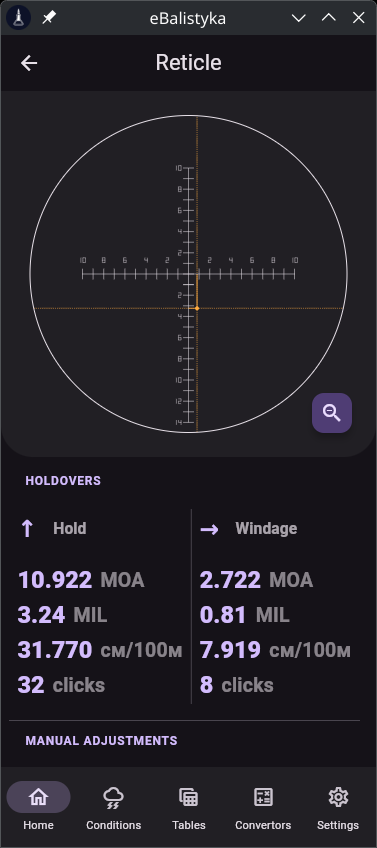
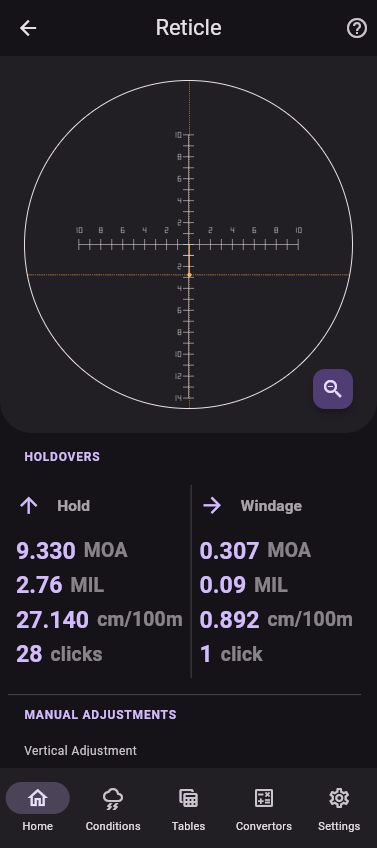
docs(help): rewrite the Reticle topic with the real labels, refresh screenshots (0012)

diff --git a/assets/markdown/uk/reticleScreen.md b/assets/markdown/uk/reticleScreen.md
@@ -1,52 +1,52 @@
-## Вид прицілу
+## Сітка прицілу
 
-Відображає сітку прицілу з нанесеною розрахованою поправкою і дозволяє налаштувати приціл та ціль.
+Показує сітку вашого прицілу з нанесеною розрахованою поправкою й дозволяє налаштувати ручні поправки, мішень та кліки. Відкривається дотиком до сітки на головному екрані.
 
 ![overview](resource:assets/markdown/uk/reticleScreen_overview.png)
 
 ---
 
-### Вид прицілу
+### Вид сітки
 
-Верхня панель показує сітку прицілу з ціллю, накладеною у правильному кутовому розмірі. Перехрестя зміщено на розраховану поправку по висоті та вітру.
+Верхня панель лишається на екрані, поки ви прокручуєте налаштування під нею. Вона показує сітку з мішенню у правильному кутовому розмірі; пунктирне перехрестя позначає точку, зміщену на розраховану поправку по висоті та вітру.
 
-- **Щипок / прокрутка** — наближення для детального огляду
+- **Щипок / прокрутка** — наближення (до 10×) для детального огляду
 - **Подвійний дотик** — масштаб 3×, повторний — скидання
-- **Кнопка скидання** (знизу праворуч) — повертає масштаб 1×
+- **Кнопка з лупою** (знизу праворуч) — повертає масштаб 1×
 
 ---
 
 ### Поправки
 
-Показує поправки по висоті та вітру, розраховані для поточних умов і дистанції.
+**Винос по вертикалі** та **по горизонталі**, розраховані для поточних умов і дистанції, у всіх одиницях, увімкнених у **Налаштування → Відображення поправок**.
 
 ---
 
 ### Ручні поправки
 
-Додатковий офсет поверх розрахованої поправки — наприклад, для корекції точки влучення.
+Додатковий зсув поверх розрахованої поправки — наприклад, для корекції зміщення пристрілки або точки влучення.
 
-- **Вертикально / Горизонтально** — введіть значення в обраній одиниці (mil, MOA, кліки тощо)
+- **Вертикальна поправка / Горизонтальна поправка** — введіть значення в обраній одиниці (MIL, MOA, кліки тощо)
 - Режим **кліків** ділить значення на розмір кліка активного прицілу
 
 ---
 
-### Ціль
+### Мішень
 
-- **Шаблон цілі** — силует, що відображається всередині виду прицілу
-- **Розмір цілі** — кутовий розмір цілі на заданій дистанції (розраховується з профілю, лише для читання)
+- **Зображення мішені** — зображення мішені всередині вигляду сітки (торкніться, щоб обрати)
+- **Розмір мішені** — кутовий розмір мішені (лише для читання)
 
 ---
 
-### Приціл
+### Сітка прицілу
 
-- **Шаблон сітки** — SVG-накладка сітки прицілу; відповідає сітці, збереженій в активному профілі
+- **Зображення сітки прицілу** — зображення сітки у вигляді (торкніться, щоб обрати). Воно зберігається в прицілі активного профілю, тож вибір тут змінює приціл цього профілю. Якщо нічого не обрано, використовується «за замовчуванням».
 
 ---
 
 ### Кліки
 
-Значення кліків, які використовуються в режимі **кліків** для поправок. Беруться з профілю активного прицілу і можуть бути відредаговані тут.
+Значення кліків, що використовуються, коли для поправок обрано **кліки**. Беруться з прицілу активного профілю й можуть бути відредаговані тут.
 
 - **Вертикальний клік** — кутове значення одного кліка барабана по висоті
 - **Горизонтальний клік** — кутове значення одного кліка барабана по вітру

diff --git a/assets/markdown/en/reticleScreen.md b/assets/markdown/en/reticleScreen.md
@@ -1,6 +1,6 @@
-## Reticle View
+## Reticle
 
-Visualises your scope reticle with the calculated holdover applied, and lets you configure the scope and target settings.
+Shows your scope reticle with the calculated holdover applied, and lets you configure manual adjustments, the target and the clicks. Open it by tapping the reticle on the Home screen.
 
 ![overview](resource:assets/markdown/en/reticleScreen_overview.png)
 
@@ -8,45 +8,45 @@ Visualises your scope reticle with the calculated holdover applied, and lets you
 
 ### Reticle view
 
-The top panel shows your reticle with the target overlaid at the correct angular size. The dot or crosshair is shifted by the calculated elevation and wind holdover.
+The top panel stays on screen while you scroll the settings below it. It shows the reticle with the target at its correct angular size; the dashed crosshair marks the point shifted by the calculated elevation and wind holdover.
 
-- **Pinch / scroll** — zoom in for a closer look
+- **Pinch / scroll** — zoom in (up to 10×) for a closer look
 - **Double-tap** — zoom to 3×, double-tap again to reset
-- **Reset button** (bottom-right) — returns to 1× zoom
+- **Magnifier button** (bottom-right) — returns to 1× zoom
 
 ---
 
 ### Holdovers
 
-Shows the elevation and windage adjustments calculated for the current conditions and distance.
+The **Hold** (vertical) and **Windage** (horizontal) adjustments calculated for the current conditions and distance, in every unit you have enabled in **Settings → Adjustment Display**.
 
 ---
 
-### Manual adjustments
+### Manual Adjustments
 
-Additional offset you apply on top of the calculated holdover — for example, to account for a zeroing shift or point-of-impact correction.
+An additional offset applied on top of the calculated holdover — for example, to account for a zeroing shift or point-of-impact correction.
 
-- **Vertical / Horizontal** — enter a value in the chosen unit (mil, MOA, clicks, etc.)
-- Switching to **clicks** mode divides the value by the click size of the active scope
+- **Vertical Adjustment / Horizontal Adjustment** — enter a value in the chosen unit (MIL, MOA, clicks, …)
+- Switching to **clicks** divides the value by the click size of the active scope
 
 ---
 
 ### Target
 
-- **Target pattern** — the silhouette displayed inside the reticle view
-- **Target size** — the angular size of the target at the set distance (read-only, computed from the profile)
+- **Target pattern** — the target image drawn inside the reticle view (tap to choose)
+- **Target size** — the angular size of the target (read-only)
 
 ---
 
 ### Reticle
 
-- **Reticle pattern** — the SVG reticle overlay drawn over the target; matches the reticle saved in the active profile
+- **Reticle pattern** — the reticle image shown in the view (tap to choose). It is stored in the scope of the active profile, so choosing it here changes that profile's scope. "default" is used when none is chosen.
 
 ---
 
 ### Clicks
 
-The click values used when **clicks** mode is selected for adjustments. They come from the active scope profile and can be edited here.
+The click values used when **clicks** are selected for the adjustments. They come from the scope of the active profile and can be edited here.
 
 - **Vertical click** — angular value of one turret click on the elevation axis
 - **Horizontal click** — angular value of one turret click on the windage axis
